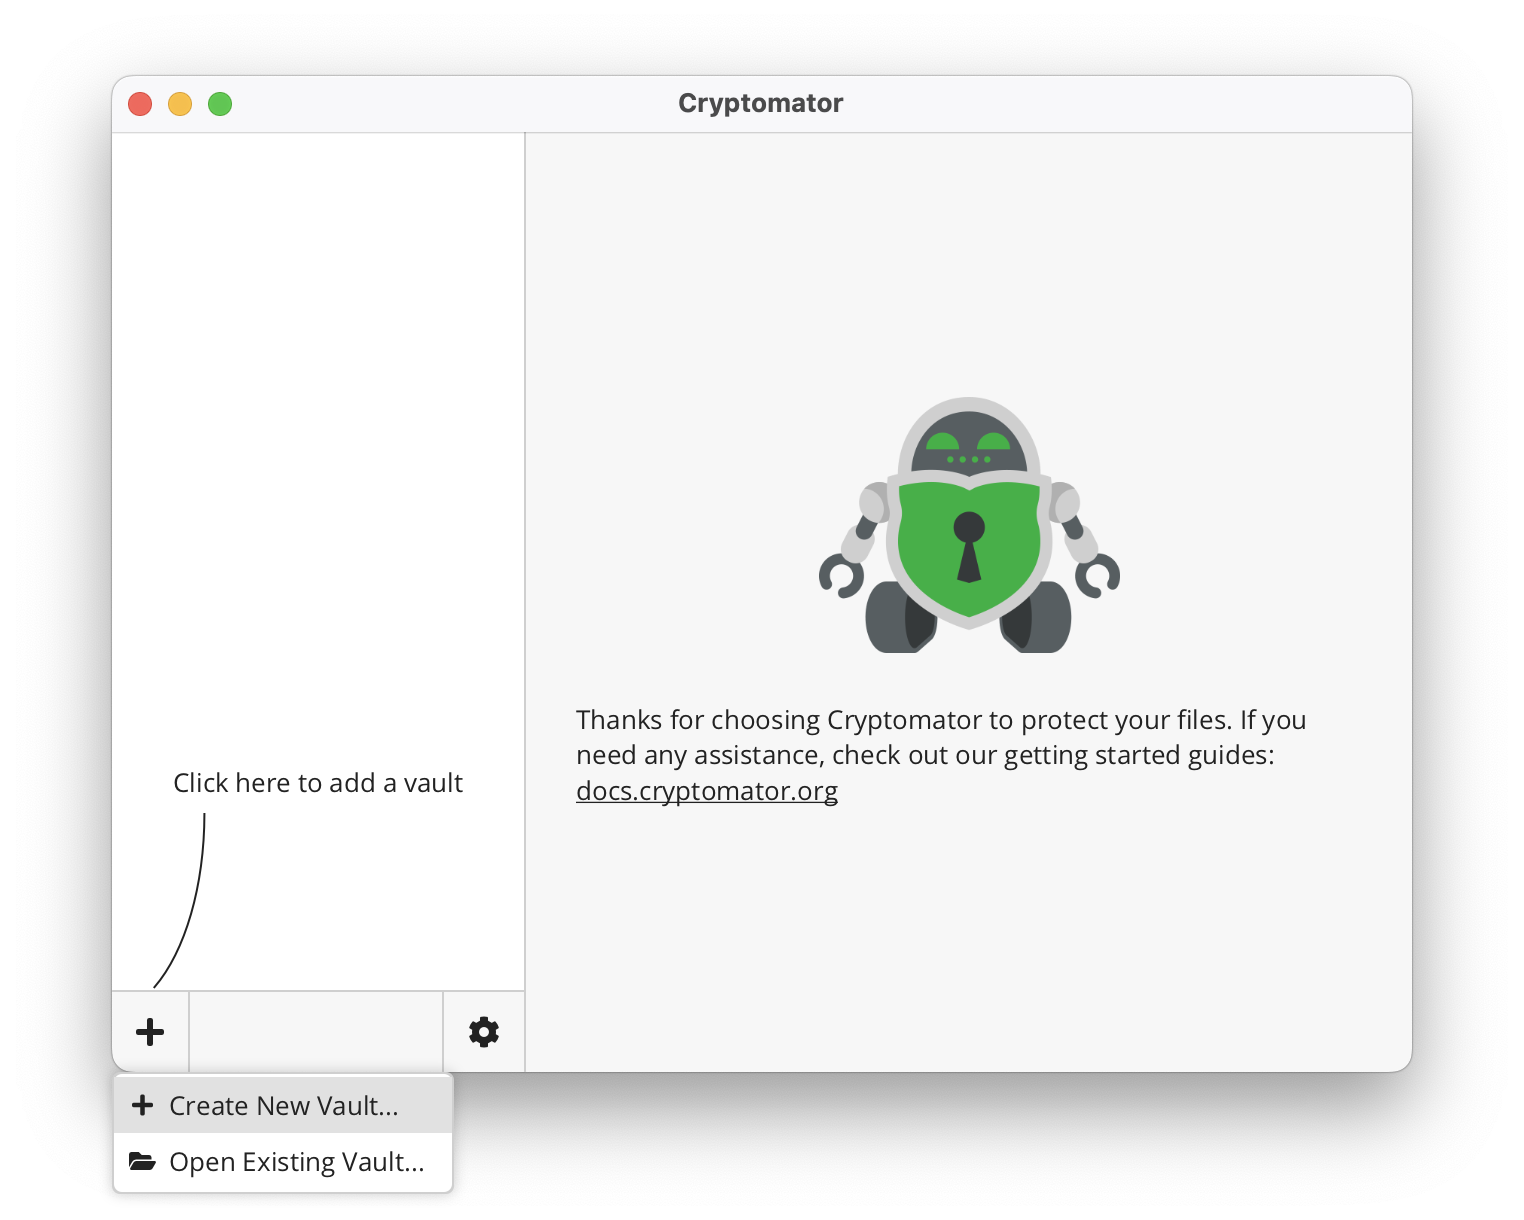
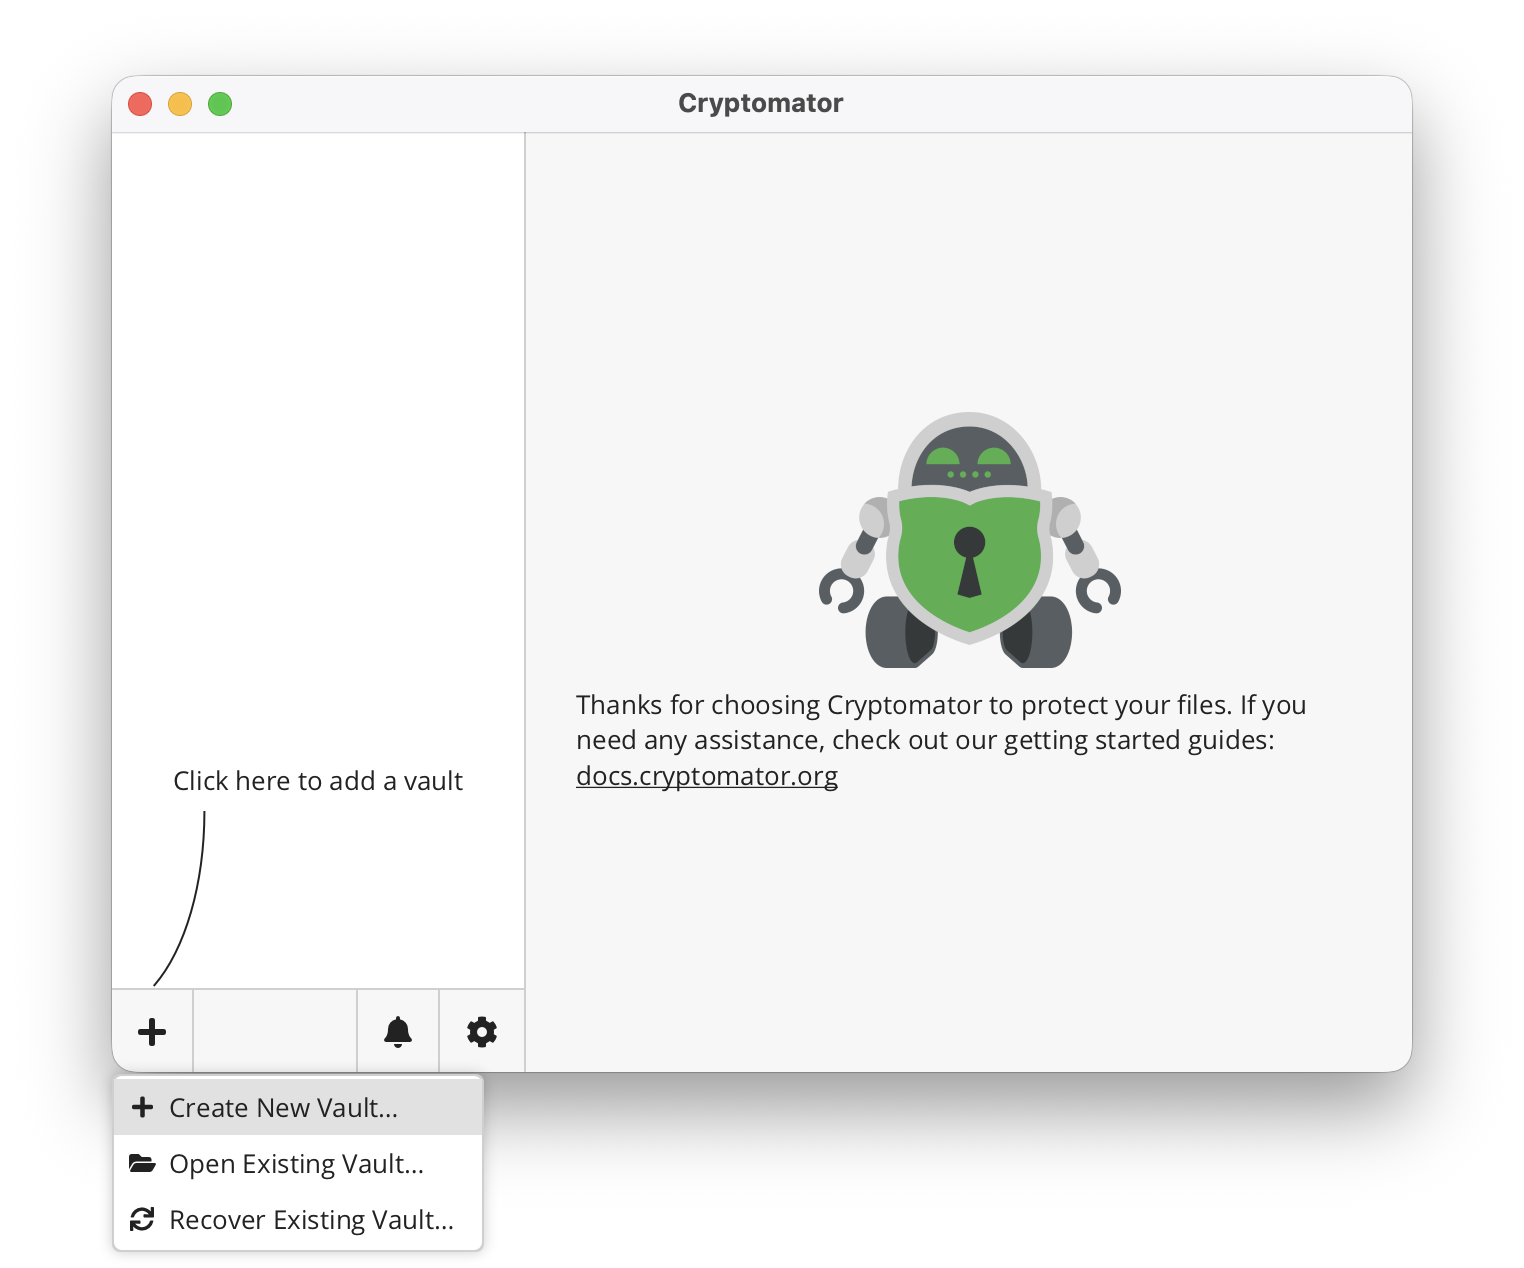
Add "Recover Existing Vault…" to Desktop/Adding Vaults (#117)

diff --git a/docs/desktop/adding-vaults.md b/docs/desktop/adding-vaults.md
@@ -6,10 +6,11 @@ sidebar_position: 3
 
 # Adding Vaults
 
-You will be presented with two options when adding a vault:
+You will be presented with three options when adding a vault:
 
 1. [`Create New Vault…`](#create-a-new-vault) - Choose this if you wish to create a new vault.
 2. [`Open Existing Vault…`](#open-an-existing-vault) - Choose this if you already have a vault and wish to open it.
+3. [`Recover Existing Vault…`](/docs/desktop/vault-recovery.md#add-recover-vault) - Choose this if you have a vault with missing configuration files that hasn’t yet been added and you want to restore it.
 
 <Image src="/img/desktop/create-or-open-vault.png" alt="Create a new or open an existing vault" width="762" height="610" />
 
